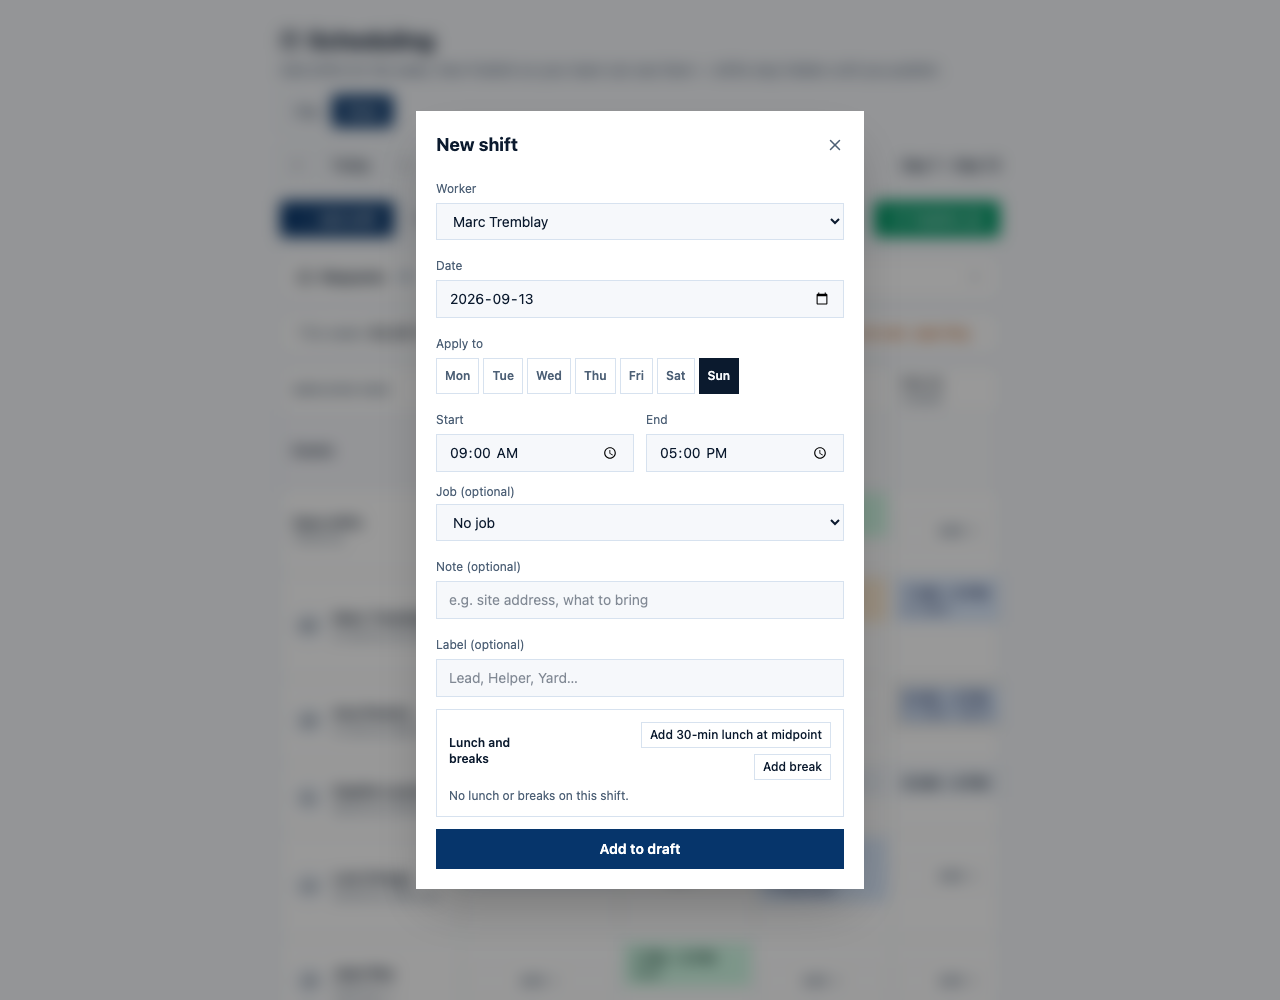
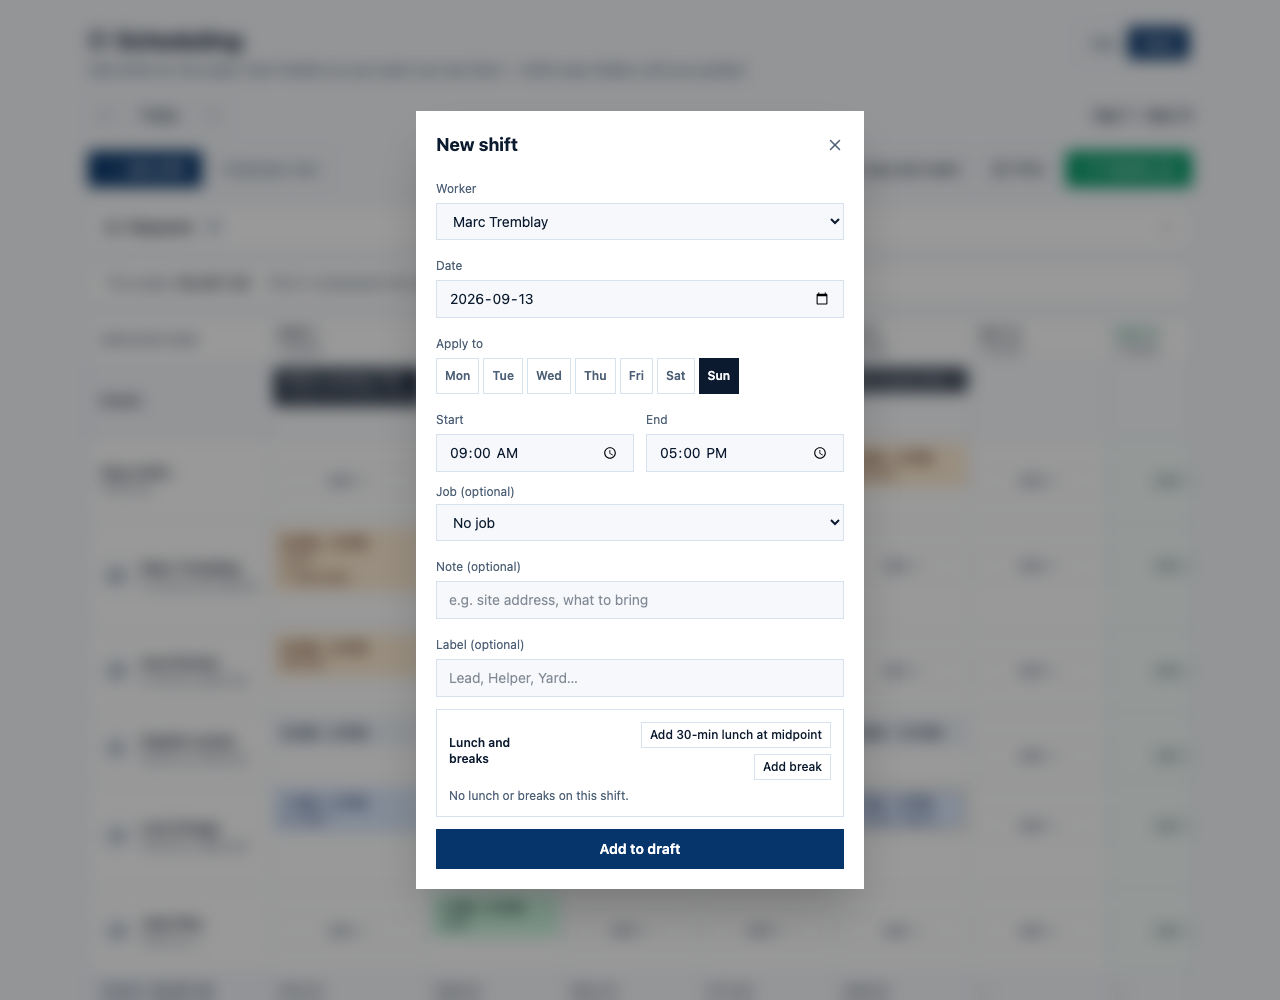
The week grid's frames re-shot at the full width the container now allows (13ee184b widened it after the first capture), and a ternary on Home that chose between two identical links

diff --git a/app/components/me/WorkerHome.js b/app/components/me/WorkerHome.js
@@ -95,7 +95,7 @@ export default function WorkerHome() {
           {/* ── Coming up ───────────────────────────────────────────── */}
           {data.upcoming?.length ? (
             <Card>
-              <CardTitle action={<Link href={data.me.quoter ? "/app/me/schedule" : "/app/me/schedule"} className="text-xs font-semibold text-foreground underline">{t("app.me.seeSchedule")}</Link>}>
+              <CardTitle action={<Link href="/app/me/schedule" className="text-xs font-semibold text-foreground underline">{t("app.me.seeSchedule")}</Link>}>
                 {t("app.me.comingUp")}
               </CardTitle>
               <ul className="divide-y divide-border">
